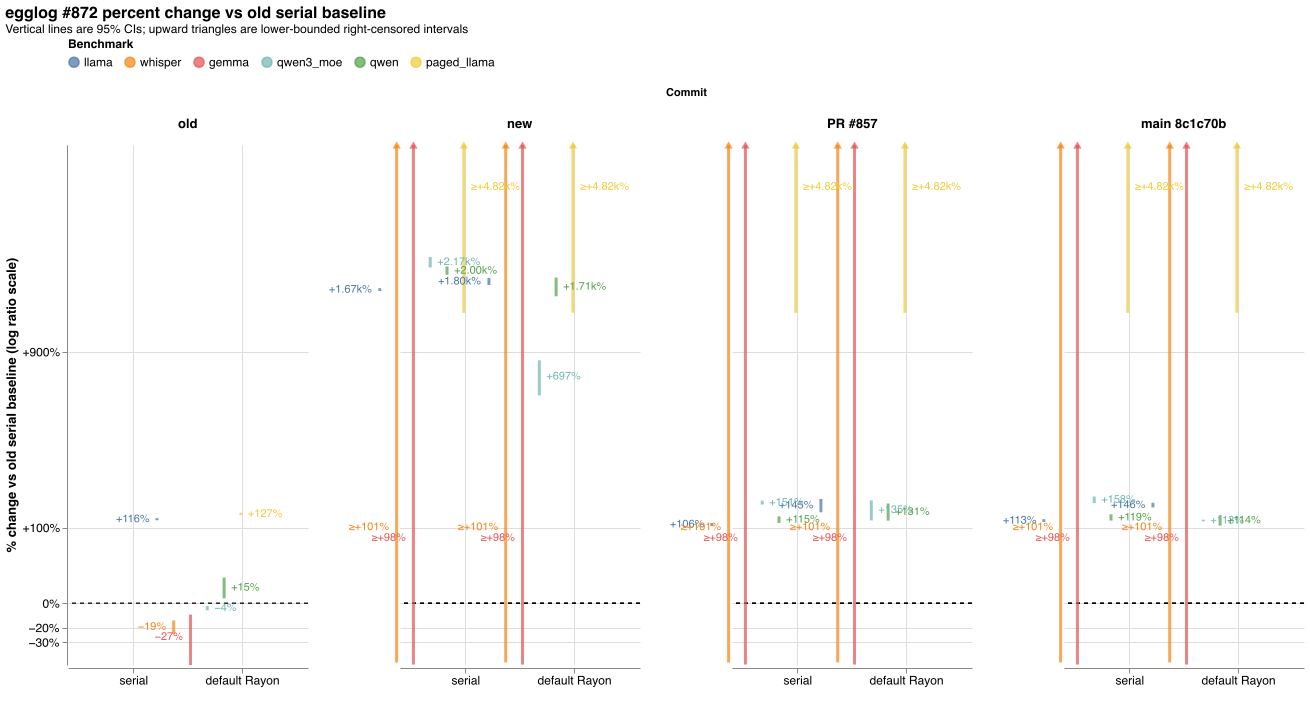
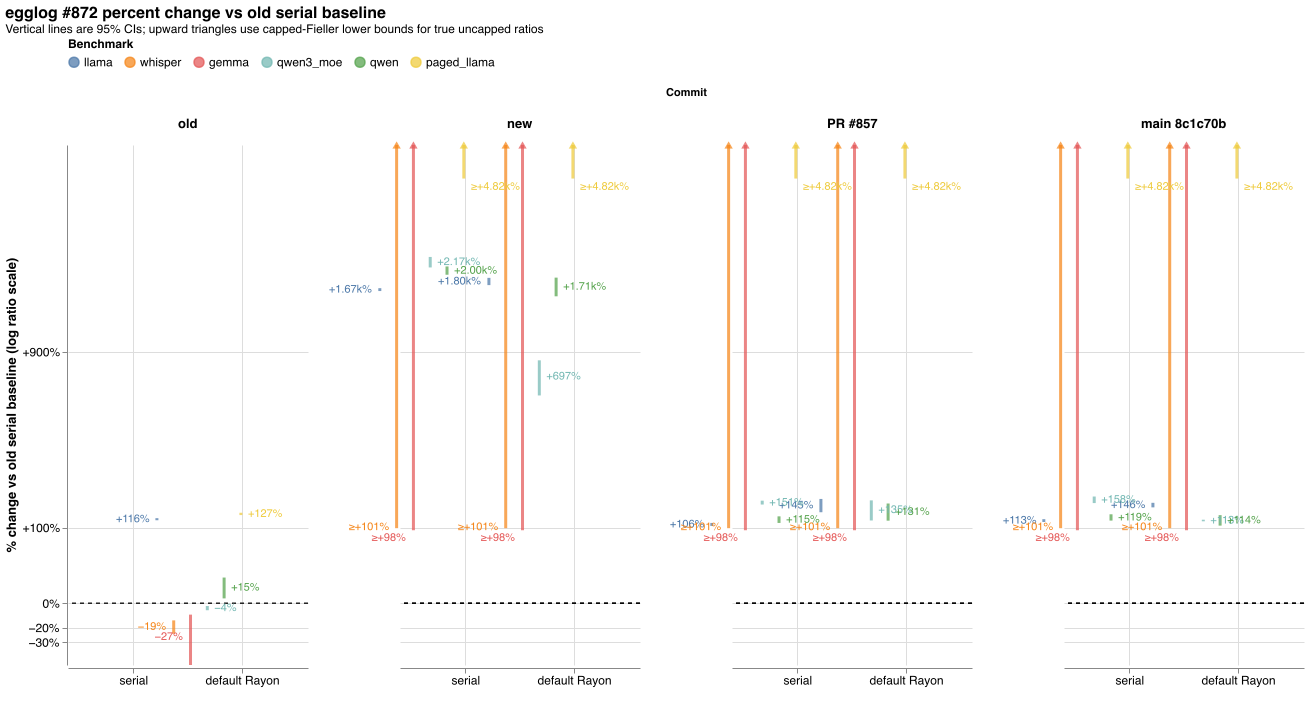
Use capped Fieller lower bounds for timeouts

diff --git a/README.md b/README.md
@@ -38,9 +38,10 @@ These are total `parse_and_run_program` times from
 old/original sweep: `llama 60s`, `whisper 61s`, `gemma 147s`, `qwen3_moe 60s`,
 `qwen 60s`, and `paged_llama 60s`. A `>` value means all three runs in that
 cell exceeded the cap and were recorded as `timeout_or_failed`. The timing
-and percent-change charts treat those timeout rows as right-censored lower
-bounds. Open-ended CI bars show lower-bounded intervals rather than dropping
-the timed-out cells.
+chart treats those timeout rows as right-censored lower bounds. The
+percent-change chart treats them as exact capped-runtime observations for
+`C = min(T, timeout)`, then uses the capped-runtime Fieller lower bound as a
+lower bound for the true uncapped runtime ratio.
 
 ## Reproduce
 
@@ -67,9 +68,10 @@ benchmark as the baseline and reports ratio-of-means percent change with a
 one-level Fieller-style 95% confidence interval, following the
 ratio-of-execution-time-means effect-size framing from Kalibera and Jones'
 *Quantifying Performance Changes with Effect Size Confidence Intervals*.
-When a comparison has timed-out runs, the timeout cutoff is treated as a
-right-censored lower-bound observation: the reported CI is `[lower, infinity)`
-and the chart draws the bar upward to the plot cap with a triangle marker.
+When a ratio comparison has timed-out runs, the timeout cutoff is treated as an
+exact capped-runtime observation for the capped metric. The reported true
+uncapped runtime-ratio CI is `[capped Fieller lower, infinity)`, and the chart
+draws the bar upward to the plot cap with a triangle marker.
 This script treats each process-level run in `results/timings_scatter.csv`
 as one sample; it does not attempt the full hierarchical experiment
 dimensioning from Kalibera and Jones' *Rigorous Benchmarking in Reasonable
@@ -167,5 +169,7 @@ finally constructs a `cublaslt` op invocation. The 4-element stride lists
   etc.) but the current evidence still points at planner/runtime behavior,
   not a semantic difference in the data.
 - Timeout rows in `results/timings_scatter.csv` are censored observations at
-  the configured cap. They are included in both CI charts as lower-bounded
-  right-censored observations.
+  the configured cap. The raw timing chart treats them as lower-bounded
+  right-censored observations; the percent-change chart uses capped-runtime
+  Fieller lower bounds with infinite upper bounds for true uncapped runtime
+  ratios.